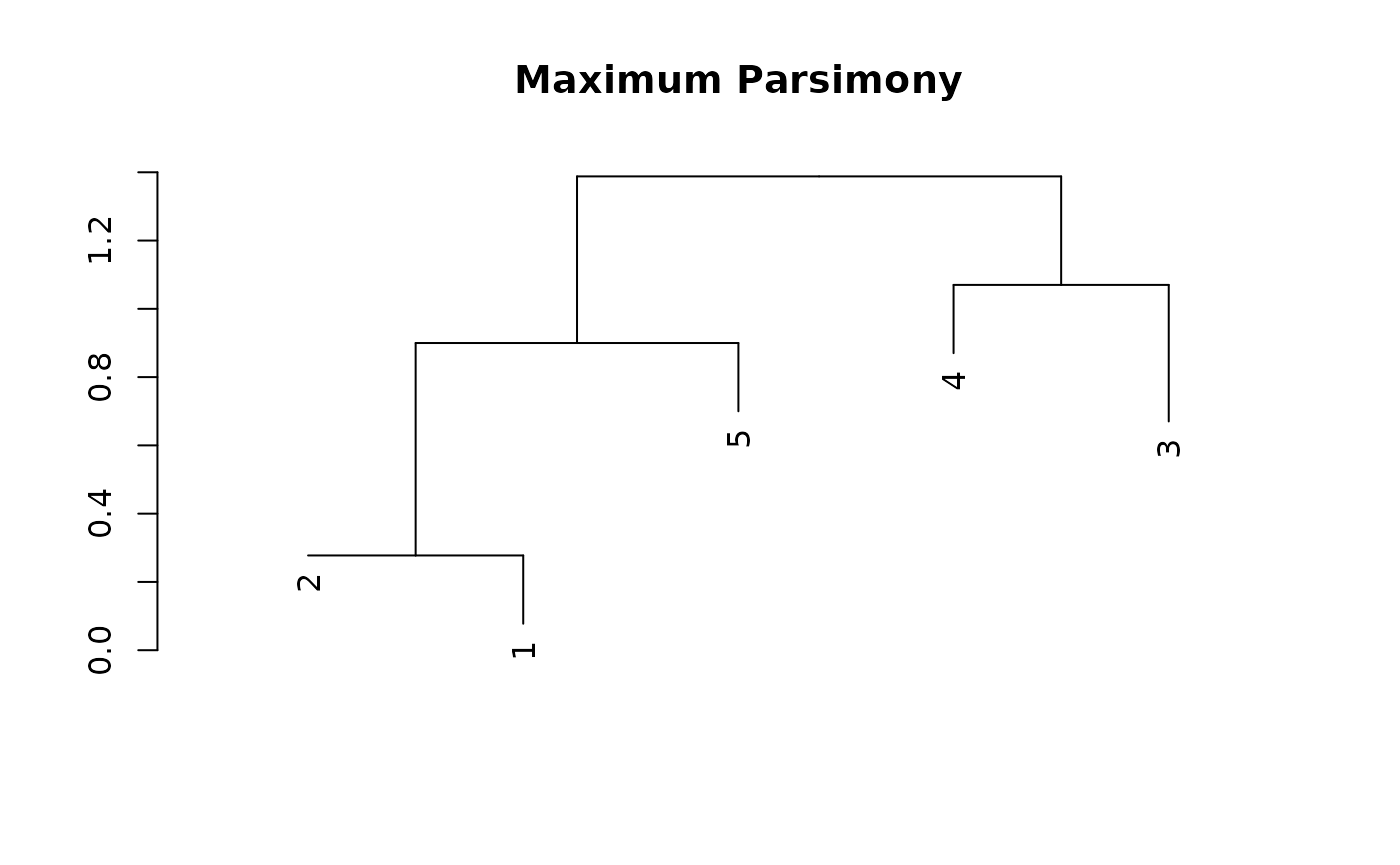
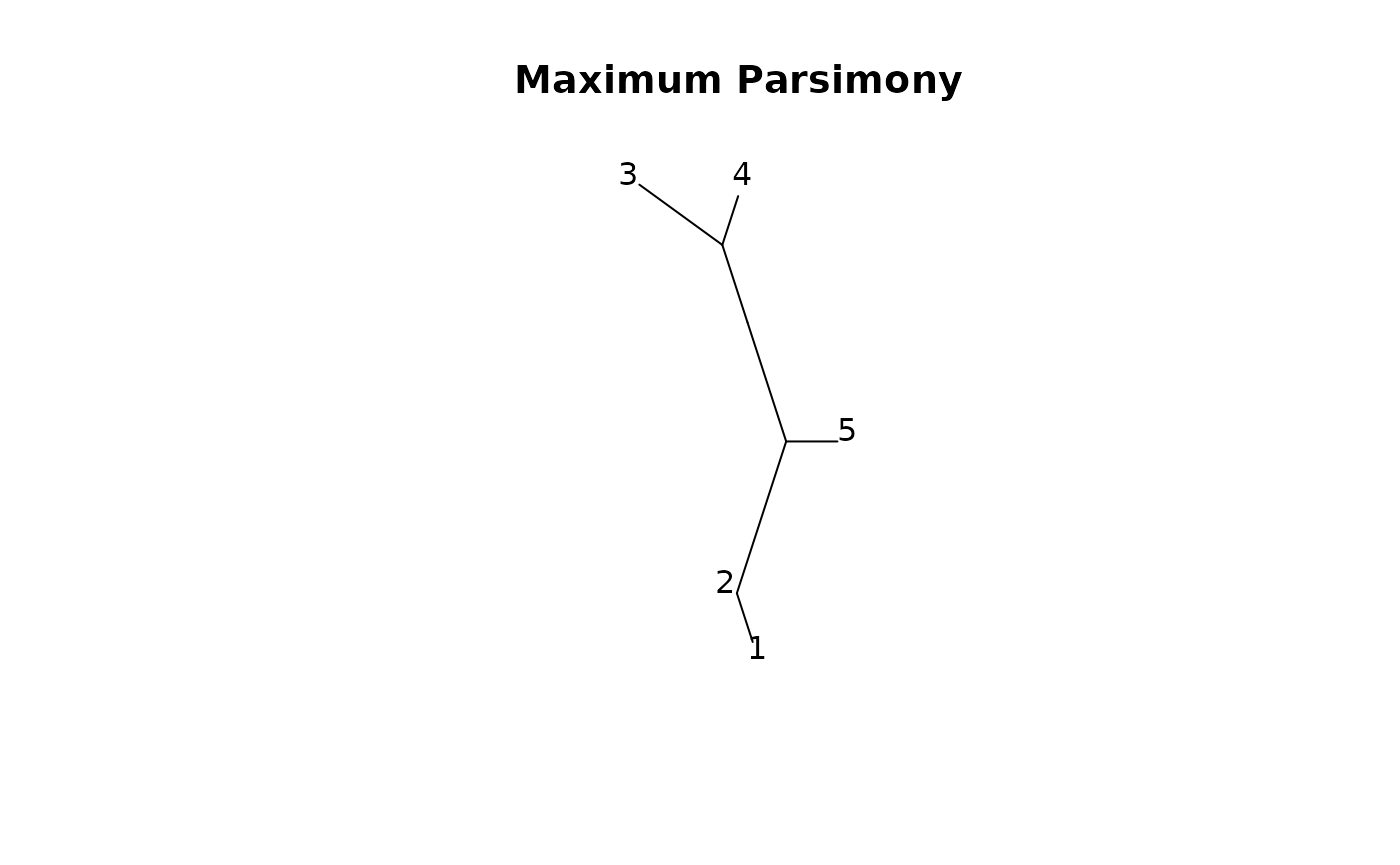
Deploying to gh-pages from @ ahl27/IntroPhylogenetics@b0be6d9726857b8275481b8a1b683f66edb7c516 🚀

diff --git a/articles/BuildingTrees.html b/articles/BuildingTrees.html
@@ -98,7 +98,16 @@ Lakshman<a class="footnote-ref" tabindex="0" data-bs-toggle="popover" data-bs-co
     
 <div class="sourceCode" id="cb1"><pre class="downlit sourceCode r">
 <code class="sourceCode R"><span><span class="co"># Package imports</span></span>
-<span><span class="kw"><a href="https://rdrr.io/r/base/library.html" class="external-link">library</a></span><span class="op">(</span><span class="va">DECIPHER</span><span class="op">)</span></span></code></pre></div>
+<span><span class="kw"><a href="https://rdrr.io/r/base/library.html" class="external-link">library</a></span><span class="op">(</span><span class="va"><a href="http://ape-package.ird.fr/" class="external-link">ape</a></span><span class="op">)</span></span>
+<span><span class="kw"><a href="https://rdrr.io/r/base/library.html" class="external-link">library</a></span><span class="op">(</span><span class="va">DECIPHER</span><span class="op">)</span></span>
+<span></span>
+<span><span class="co"># Helper plotting function</span></span>
+<span><span class="va">plot_tree_unrooted</span> <span class="op">&lt;-</span> <span class="kw">function</span><span class="op">(</span><span class="va">dend</span>, <span class="va">title</span><span class="op">)</span><span class="op">{</span></span>
+<span>  <span class="va">tf</span> <span class="op">&lt;-</span> <span class="fu"><a href="https://rdrr.io/r/base/tempfile.html" class="external-link">tempfile</a></span><span class="op">(</span><span class="op">)</span></span>
+<span>  <span class="fu"><a href="https://rdrr.io/pkg/DECIPHER/man/WriteDendrogram.html" class="external-link">WriteDendrogram</a></span><span class="op">(</span><span class="va">dend</span>, file<span class="op">=</span><span class="va">tf</span>, quoteLabels<span class="op">=</span><span class="cn">FALSE</span><span class="op">)</span></span>
+<span>  <span class="va">predTree</span> <span class="op">&lt;-</span> <span class="fu"><a href="https://rdrr.io/pkg/ape/man/read.tree.html" class="external-link">read.tree</a></span><span class="op">(</span><span class="va">tf</span><span class="op">)</span></span>
+<span>  <span class="fu"><a href="https://rdrr.io/r/graphics/plot.default.html" class="external-link">plot</a></span><span class="op">(</span><span class="va">predTree</span>, <span class="st">'unrooted'</span>, main<span class="op">=</span><span class="va">title</span><span class="op">)</span></span>
+<span><span class="op">}</span></span></code></pre></div>
 <div class="section level2">
 <h2 id="distance-matrices">Distance Matrices<a class="anchor" aria-label="anchor" href="#distance-matrices"></a>
 </h2>
@@ -242,14 +251,14 @@ through above.</p>
 <div class="sourceCode" id="cb5"><pre class="downlit sourceCode r">
 <code class="sourceCode R"><span><span class="co"># UPGMA Tree</span></span>
 <span><span class="va">dend</span> <span class="op">&lt;-</span> <span class="fu"><a href="https://rdrr.io/r/stats/dendrogram.html" class="external-link">as.dendrogram</a></span><span class="op">(</span><span class="fu"><a href="https://rdrr.io/r/stats/hclust.html" class="external-link">hclust</a></span><span class="op">(</span><span class="va">dm</span><span class="op">*</span><span class="fl">5</span>, method<span class="op">=</span><span class="st">'average'</span><span class="op">)</span><span class="op">)</span></span>
-<span><span class="fu"><a href="https://rdrr.io/r/graphics/plot.default.html" class="external-link">plot</a></span><span class="op">(</span><span class="va">dend</span>, main<span class="op">=</span><span class="st">"UPGMA"</span><span class="op">)</span></span></code></pre></div>
+<span><span class="fu"><a href="https://rdrr.io/r/graphics/plot.default.html" class="external-link">plot</a></span><span class="op">(</span><span class="va">dend</span><span class="op">)</span></span></code></pre></div>
 <p><img src="BuildingTrees_files/figure-html/unnamed-chunk-3-1.png" width="700"></p>
 <p>Implementing WPGMA trees is very similar to UPGMA trees (and gives
 the same result in this example):</p>
 <div class="sourceCode" id="cb6"><pre class="downlit sourceCode r">
 <code class="sourceCode R"><span><span class="co"># WPGMA Tree</span></span>
 <span><span class="va">dend</span> <span class="op">&lt;-</span> <span class="fu"><a href="https://rdrr.io/r/stats/dendrogram.html" class="external-link">as.dendrogram</a></span><span class="op">(</span><span class="fu"><a href="https://rdrr.io/r/stats/hclust.html" class="external-link">hclust</a></span><span class="op">(</span><span class="va">dm</span><span class="op">*</span><span class="fl">5</span>, method<span class="op">=</span><span class="st">'mcquitty'</span><span class="op">)</span><span class="op">)</span></span>
-<span><span class="fu"><a href="https://rdrr.io/r/graphics/plot.default.html" class="external-link">plot</a></span><span class="op">(</span><span class="va">dend</span>, main<span class="op">=</span><span class="st">"WPGMA"</span><span class="op">)</span></span></code></pre></div>
+<span><span class="fu"><a href="https://rdrr.io/r/graphics/plot.default.html" class="external-link">plot</a></span><span class="op">(</span><span class="va">dend</span><span class="op">)</span></span></code></pre></div>
 <p><img src="BuildingTrees_files/figure-html/unnamed-chunk-4-1.png" width="700"></p>
 <p>There are also other methods for combining the distance matrices–see
 the help page for <code>hclust</code> for other examples.</p>
@@ -333,7 +342,7 @@ Note that the output is slightly different due to a different method for
 calculating the initial distance matrix.</p>
 <div class="sourceCode" id="cb7"><pre class="downlit sourceCode r">
 <code class="sourceCode R"><span><span class="va">dend</span> <span class="op">&lt;-</span> <span class="fu"><a href="https://rdrr.io/pkg/DECIPHER/man/TreeLine.html" class="external-link">TreeLine</a></span><span class="op">(</span>myDistMatrix<span class="op">=</span><span class="va">dm</span>, method<span class="op">=</span><span class="st">'NJ'</span><span class="op">)</span></span>
-<span><span class="fu"><a href="https://rdrr.io/r/graphics/plot.default.html" class="external-link">plot</a></span><span class="op">(</span><span class="va">dend</span>, main<span class="op">=</span><span class="st">'Neighbor Joining'</span><span class="op">)</span></span></code></pre></div>
+<span><span class="fu">plot_tree_unrooted</span><span class="op">(</span><span class="va">dend</span>, <span class="st">'Neighbor Joining'</span><span class="op">)</span></span></code></pre></div>
 <p><img src="BuildingTrees_files/figure-html/unnamed-chunk-5-1.png" width="700"></p>
 <hr>
 </div>
@@ -435,7 +444,7 @@ so let’s look at our final two equally parsimonious reconstructions
 code:</p>
 <div class="sourceCode" id="cb8"><pre class="downlit sourceCode r">
 <code class="sourceCode R"><span><span class="va">dend</span> <span class="op">&lt;-</span> <span class="fu"><a href="https://rdrr.io/pkg/DECIPHER/man/TreeLine.html" class="external-link">TreeLine</a></span><span class="op">(</span><span class="va">sequenceSet</span>, method<span class="op">=</span><span class="st">'MP'</span><span class="op">)</span></span>
-<span><span class="fu"><a href="https://rdrr.io/r/graphics/plot.default.html" class="external-link">plot</a></span><span class="op">(</span><span class="va">dend</span>, main<span class="op">=</span><span class="st">'Maximum Parsimony'</span><span class="op">)</span></span></code></pre></div>
+<span><span class="fu">plot_tree_unrooted</span><span class="op">(</span><span class="va">dend</span>, <span class="st">'Maximum Parsimony'</span><span class="op">)</span></span></code></pre></div>
 <p><img src="BuildingTrees_files/figure-html/unnamed-chunk-6-1.png" width="700"></p>
 <p>Notice that this almost exactly matches one of our own
 reconstructions! Parsimony reconstructions can differ based on how you

diff --git a/articles/ComparingTrees.html b/articles/ComparingTrees.html
@@ -234,7 +234,7 @@ the RF distance is <span class="math inline">\(0.5\)</span>.</p>
 <div class="sourceCode" id="cb10"><pre class="downlit sourceCode r">
 <code class="sourceCode R"><span><span class="fu">RF_dist_external</span><span class="op">(</span><span class="va">NJtree</span>, <span class="va">MPtree</span><span class="op">)</span></span></code></pre></div>
 <pre><code><span><span class="co">##       tree1</span></span>
-<span><span class="co">## tree2     8</span></span></code></pre>
+<span><span class="co">## tree2    12</span></span></code></pre>
 </div>
 <div class="section level3">
 <h3 id="drawbacks">Drawbacks<a class="anchor" aria-label="anchor" href="#drawbacks"></a>
@@ -316,7 +316,7 @@ small differences in topology and upweight large differences.</p>
 <div class="sourceCode" id="cb16"><pre class="downlit sourceCode r">
 <code class="sourceCode R"><span><span class="fu">RF_dist_external</span><span class="op">(</span><span class="va">NJtree</span>, <span class="va">MPtree</span><span class="op">)</span></span></code></pre></div>
 <pre><code><span><span class="co">##       tree1</span></span>
-<span><span class="co">## tree2     8</span></span></code></pre>
+<span><span class="co">## tree2    12</span></span></code></pre>
 </div>
 </div>
 <div class="section level2">
@@ -493,15 +493,15 @@ different results.</p>
 <span></span>
 <span><span class="va">RFDists</span></span></code></pre></div>
 <pre><code><span><span class="co">##           UPGMA        NJ        MP</span></span>
-<span><span class="co">## UPGMA 0.0000000 0.2608696 0.3913043</span></span>
-<span><span class="co">## NJ    0.2608696 0.0000000 0.1739130</span></span>
-<span><span class="co">## MP    0.3913043 0.1739130 0.0000000</span></span></code></pre>
+<span><span class="co">## UPGMA 0.0000000 0.2608696 0.3695652</span></span>
+<span><span class="co">## NJ    0.2608696 0.0000000 0.2608696</span></span>
+<span><span class="co">## MP    0.3695652 0.2608696 0.0000000</span></span></code></pre>
 <div class="sourceCode" id="cb23"><pre class="downlit sourceCode r">
 <code class="sourceCode R"><span><span class="va">KFDists</span></span></code></pre></div>
 <pre><code><span><span class="co">##           UPGMA        NJ        MP</span></span>
-<span><span class="co">## UPGMA 0.0000000 0.9712953 1.0576254</span></span>
-<span><span class="co">## NJ    0.9712953 0.0000000 0.3221109</span></span>
-<span><span class="co">## MP    1.0576254 0.3221109 0.0000000</span></span></code></pre>
+<span><span class="co">## UPGMA 0.0000000 0.9712953 1.0590076</span></span>
+<span><span class="co">## NJ    0.9712953 0.0000000 0.2832842</span></span>
+<span><span class="co">## MP    1.0590076 0.2832842 0.0000000</span></span></code></pre>
 <hr>
 </div>
 </div>
